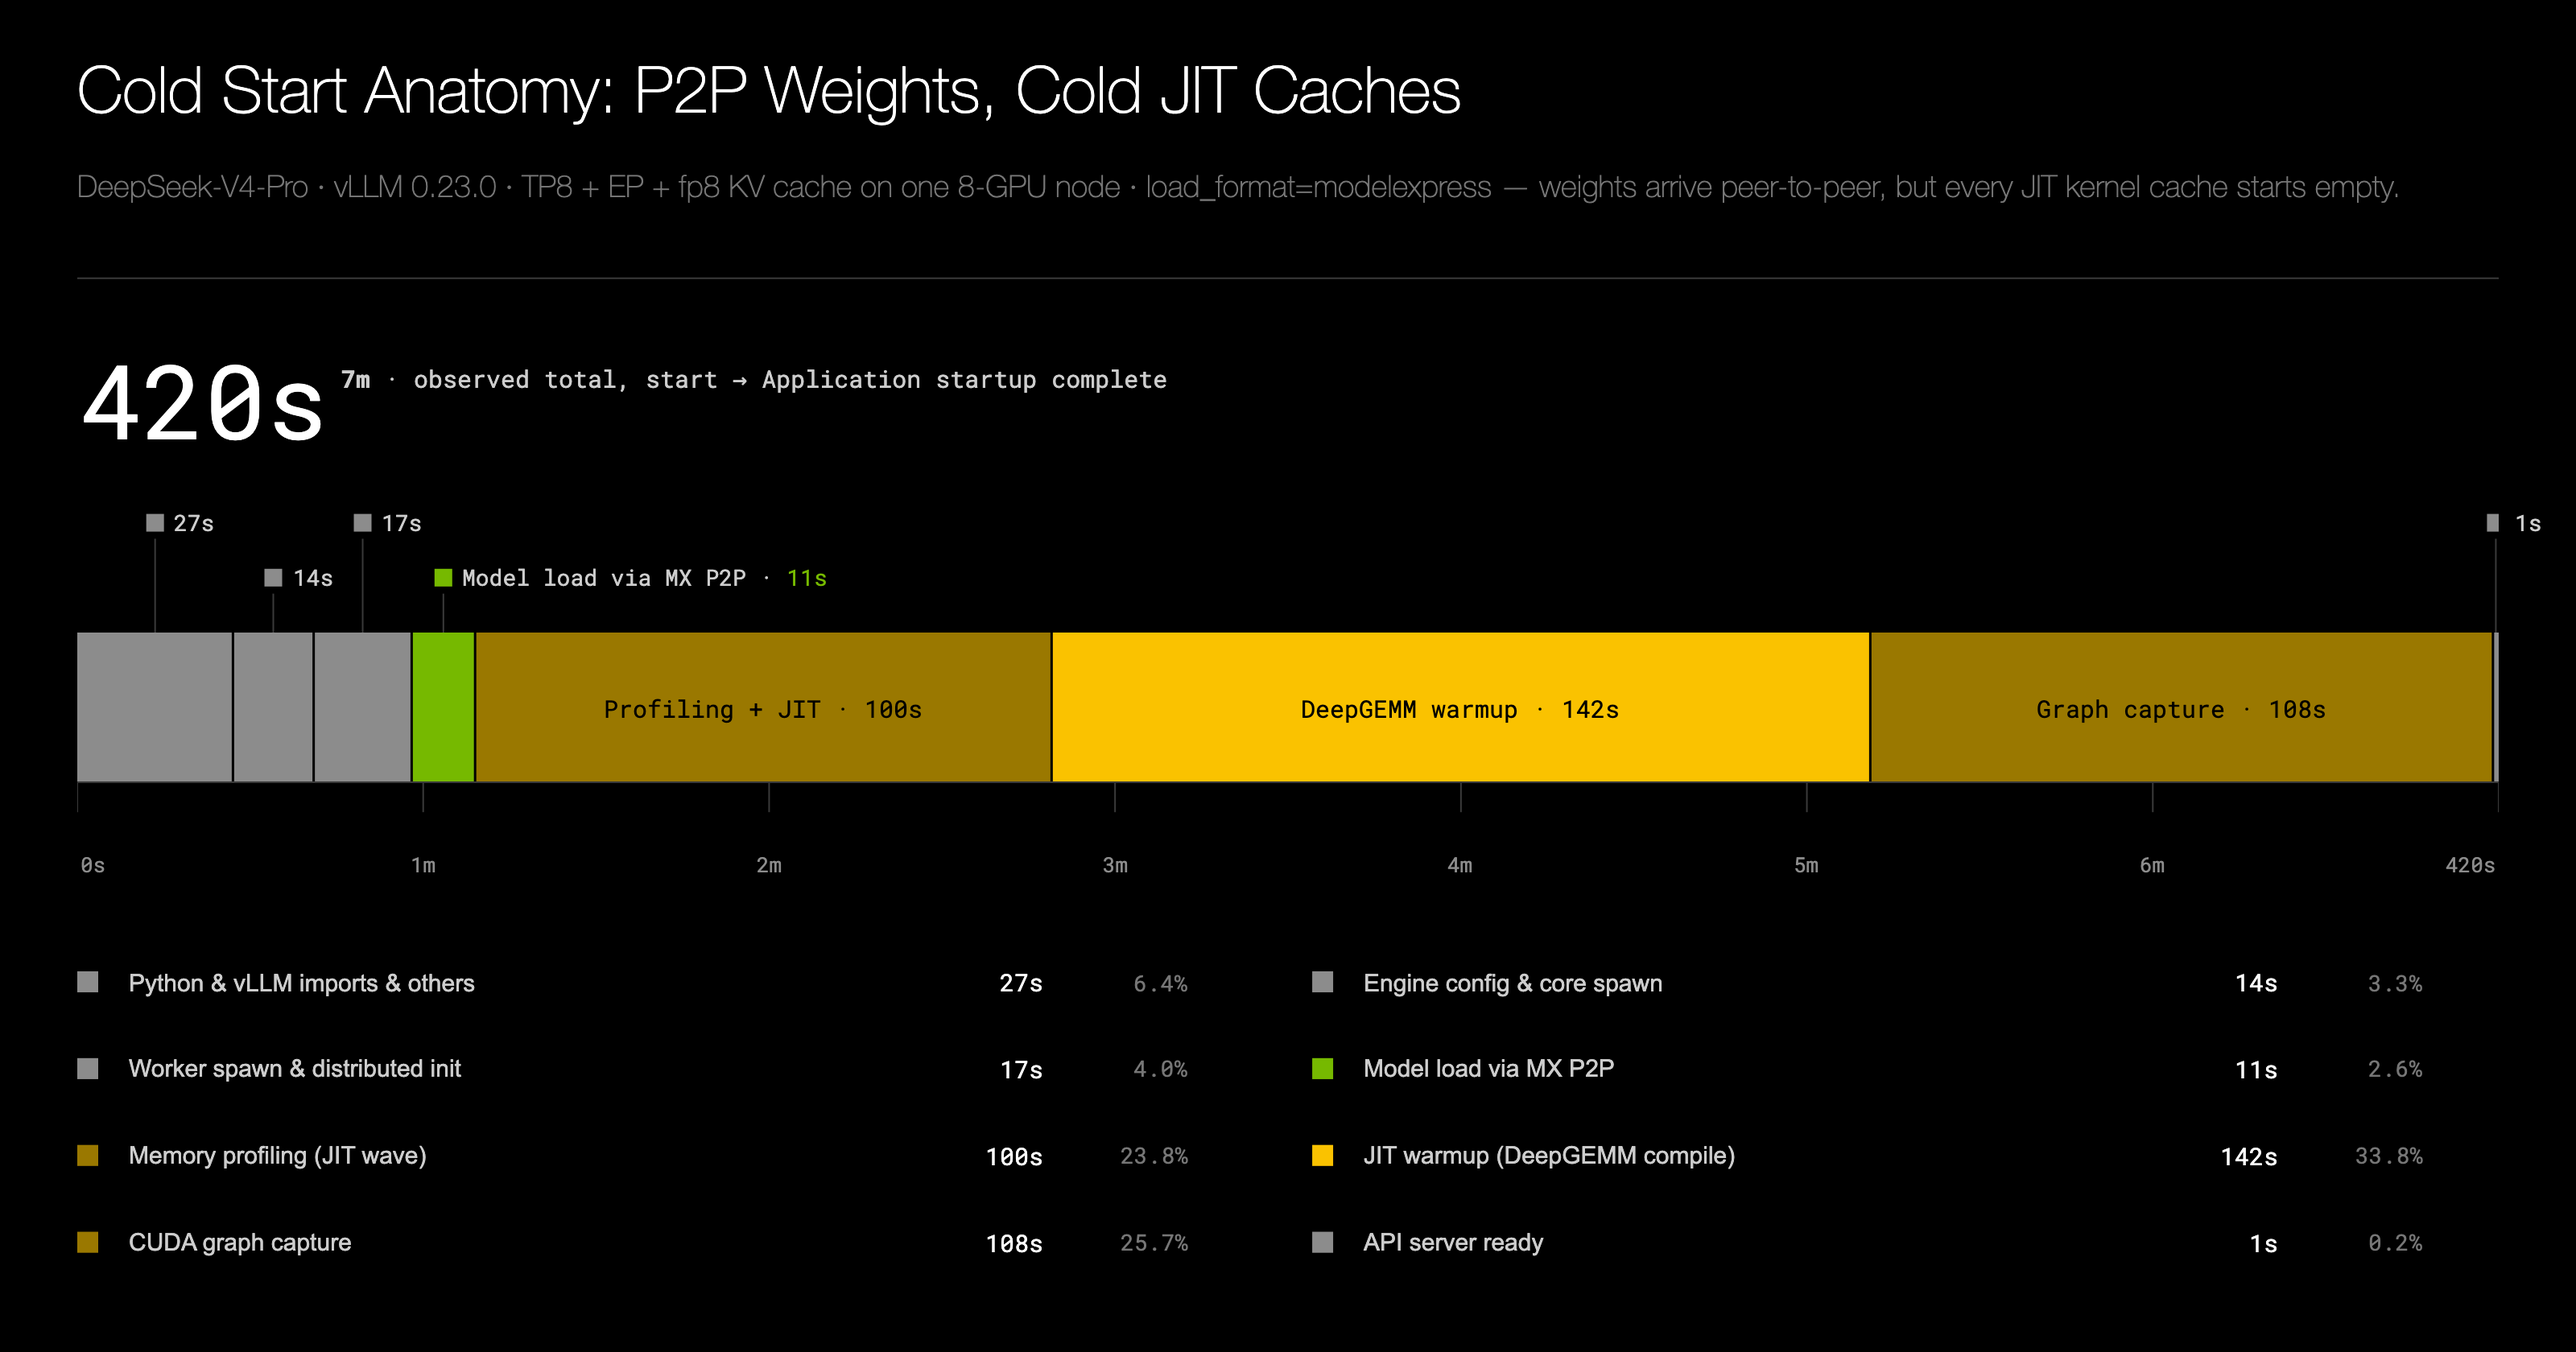
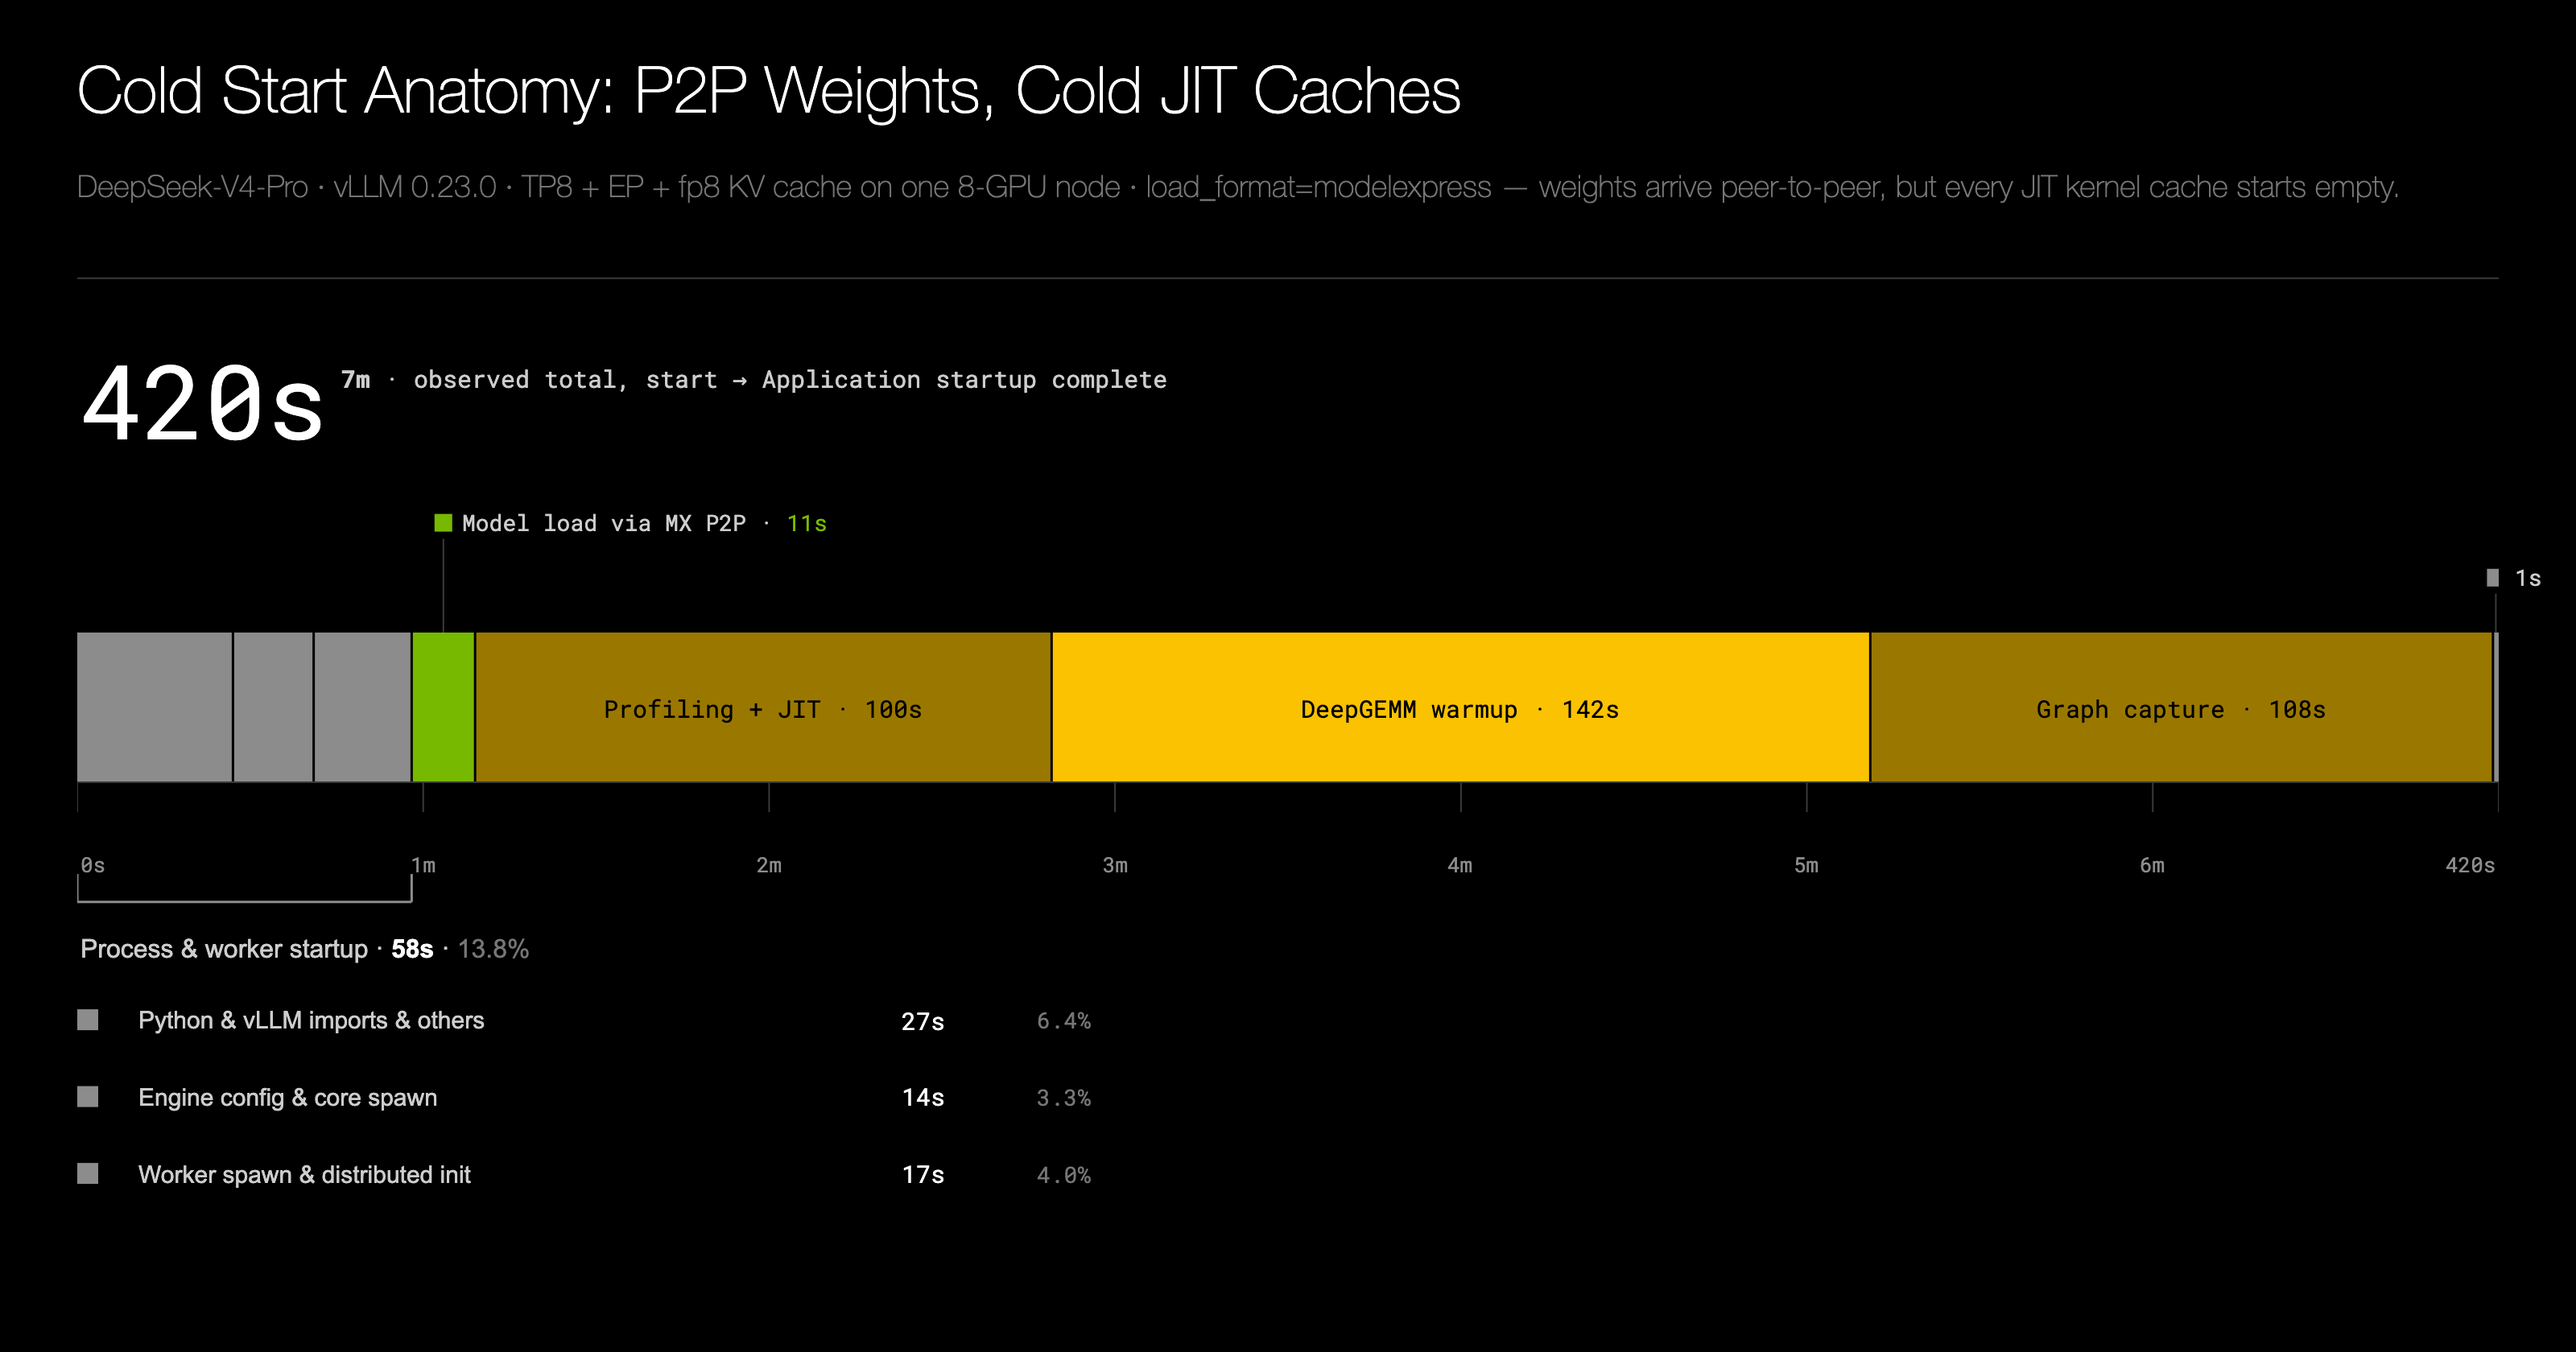
docs(drafts): redesign fig-6 startup bracket + breakdown, drop legend

diff --git a/drafts/modelexpress-coldstart/fig-6/gen_fig_6_coldstart_anatomy.py b/drafts/modelexpress-coldstart/fig-6/gen_fig_6_coldstart_anatomy.py
@@ -18,6 +18,12 @@ Restyle of the reference light-theme breakdown bar into Dynamo Dark:
       data-plane weight load); the JIT-cache warmup cluster carries the gold
       "warmup" role, matching fig-4; setup phases recede to grey
     - real seconds x-axis so the minute ticks align exactly to the bar
+    - the three leading grey setup phases (imports + engine config + worker
+      spawn = 58 s) are grouped by a bracket drawn under that stretch of the
+      timeline; the bracket carries the group total and a compact breakdown of
+      the three parts, replacing the old full eight-row legend. The wide gold
+      warmup phases stay labeled in-bar and MX P2P keeps its green above-bar
+      callout, so nothing else needs a legend.
 
 Data (durations in seconds) is the source of truth; percentages are derived.
 
@@ -48,25 +54,27 @@ TOTAL_SEC = 420  # observed total, start -> Application startup complete (7m)
 #            fig-4's warmup phase; coral stays reserved for a baseline/slow path,
 #            which this single optimized run does not contain
 # Phases in time order. `place`: "in" = label inside the bar; "above" = leader
-# line + marker + duration above the bar (used for the narrow phases).
+# line + marker + duration above the bar (the narrow MX P2P win + the API tick);
+# "group" = no individual callout -- represented instead by the startup bracket
+# and its breakdown drawn below the timeline.
 SEGMENTS = [
     {
         "name": "Python & vLLM imports & others",
         "dur": 27,
         "role": "setup",
-        "place": "above",
+        "place": "group",
     },
     {
         "name": "Engine config & core spawn",
         "dur": 14,
         "role": "setup",
-        "place": "above",
+        "place": "group",
     },
     {
         "name": "Worker spawn & distributed init",
         "dur": 17,
         "role": "setup",
-        "place": "above",
+        "place": "group",
     },
     {"name": "Model load via MX P2P", "dur": 11, "role": "win", "place": "above"},
     {
@@ -93,25 +101,23 @@ SEGMENTS = [
     {"name": "API server ready", "dur": 1, "role": "setup", "place": "above"},
 ]
 
-# Two-column legend order matches the reference (reading down each column).
-LEGEND_LEFT = [
-    "Python & vLLM imports & others",
-    "Worker spawn & distributed init",
-    "Memory profiling (JIT wave)",
-    "CUDA graph capture",
-]
-LEGEND_RIGHT = [
-    "Engine config & core spawn",
-    "Model load via MX P2P",
-    "JIT warmup (DeepGEMM compile)",
-    "API server ready",
-]
+# The three leading grey setup phases collapse into one logical "startup"
+# segment, grouped by a bracket + breakdown below the timeline (replaces the
+# old eight-row legend). They are the first three SEGMENTS, in time order.
+STARTUP_PARTS = [s["name"] for s in SEGMENTS[:3]]
+STARTUP_SEC = sum(s["dur"] for s in SEGMENTS[:3])  # 58s -> 0..58 on the timeline
 
 # ---- geometry (data coords: x = seconds [0,420]; y = paper-equivalent [0,1]) ----
 BAR_Y0, BAR_Y1 = 0.500, 0.650
 LABEL_Y_HIGH, LABEL_Y_LOW = 0.760, 0.705
 TICK_Y0, TICK_Y1 = 0.470, 0.500
 TICK_LABEL_Y = 0.435
+
+# ---- startup bracket + breakdown (below the axis, aligned to the 0..58s span) ----
+BRACKET_LINE_Y = 0.380  # horizontal underline of the bracket
+BRACKET_ARM_TOP = 0.408  # short arms rise from the line toward the bar/axis
+GROUP_LABEL_Y = 0.350  # bracket total + share, just under the underline
+BREAKDOWN_ROW_YS = [0.262, 0.185, 0.108]  # one row per grouped part
 
 
 def main() -> None:
@@ -361,82 +367,116 @@ def main() -> None:
             )
         )
 
-    # ---- legend table (two columns, swatch + name + right-aligned dur + pct) ----
-    sw_w, sw_h = 13 / 1504, 13 / 617  # visually square swatch in paper units
-    cols = [
-        {
-            "names": LEGEND_LEFT,
-            "sw_x": 0.0,
-            "name_x": 0.020,
-            "dur_x": 0.400,
-            "pct_x": 0.460,
-        },
-        {
-            "names": LEGEND_RIGHT,
-            "sw_x": 0.510,
-            "name_x": 0.530,
-            "dur_x": 0.910,
-            "pct_x": 0.970,
-        },
-    ]
-    row_ys = [0.300, 0.213, 0.126, 0.039]
-    for col in cols:
-        for name, ry in zip(col["names"], row_ys):
-            shapes.append(
-                dict(
-                    type="rect",
-                    xref="paper",
-                    yref="paper",
-                    x0=col["sw_x"],
-                    x1=col["sw_x"] + sw_w,
-                    y0=ry - sw_h / 2,
-                    y1=ry + sw_h / 2,
-                    fillcolor=seg_color[name],
-                    line=dict(width=0),
-                    layer="above",
-                )
+    # ---- startup bracket: one grey "⊔" grouping the first three phases ----
+    # A squared bracket (horizontal underline + short arms rising toward the
+    # bar) spanning 0..58s, drawn in the same grey as the setup fills so it
+    # reads as "these three grey segments are one logical startup step."
+    shapes.append(
+        dict(
+            type="line",
+            xref="x",
+            yref="y",
+            x0=0,
+            x1=STARTUP_SEC,
+            y0=BRACKET_LINE_Y,
+            y1=BRACKET_LINE_Y,
+            line=dict(color=grey, width=1.5),
+            layer="above",
+        )
+    )
+    for arm_x in (0, STARTUP_SEC):
+        shapes.append(
+            dict(
+                type="line",
+                xref="x",
+                yref="y",
+                x0=arm_x,
+                x1=arm_x,
+                y0=BRACKET_LINE_Y,
+                y1=BRACKET_ARM_TOP,
+                line=dict(color=grey, width=1.5),
+                layer="above",
             )
-            annotations.append(
-                dict(
-                    xref="paper",
-                    yref="paper",
-                    x=col["name_x"],
-                    y=ry,
-                    xanchor="left",
-                    yanchor="middle",
-                    text=name,
-                    showarrow=False,
-                    font=dict(family=font_sans, size=15, color=text_secondary),
-                )
+        )
+
+    # ---- bracket label: the group name + its total time + share of 420s ----
+    annotations.append(
+        dict(
+            xref="paper",
+            yref="paper",
+            x=0.0,
+            y=GROUP_LABEL_Y,
+            xanchor="left",
+            yanchor="top",
+            text=(
+                f"Process & worker startup · "
+                f'<b><span style="color:{text_primary}">{STARTUP_SEC}s</span></b>'
+                f' · <span style="color:{text_muted}">{pct(STARTUP_SEC)}%</span>'
+            ),
+            showarrow=False,
+            font=dict(family=font_sans, size=16, color=text_secondary),
+        )
+    )
+
+    # ---- breakdown: how the 58s splits across the three grouped parts ----
+    # Compact left-aligned list (swatch + name + right-aligned seconds + share),
+    # scoped to the startup group -- not the old full-figure legend.
+    sw_w, sw_h = 13 / 1504, 13 / 620  # visually square swatch in paper units
+    for name, ry in zip(STARTUP_PARTS, BREAKDOWN_ROW_YS):
+        dur = seg_dur[name]
+        shapes.append(
+            dict(
+                type="rect",
+                xref="paper",
+                yref="paper",
+                x0=0.0,
+                x1=sw_w,
+                y0=ry - sw_h / 2,
+                y1=ry + sw_h / 2,
+                fillcolor=seg_color[name],
+                line=dict(width=0),
+                layer="above",
             )
-            annotations.append(
-                dict(
-                    xref="paper",
-                    yref="paper",
-                    x=col["dur_x"],
-                    y=ry,
-                    xanchor="right",
-                    yanchor="middle",
-                    text=f"{seg_dur[name]}s",
-                    showarrow=False,
-                    font=dict(
-                        family=font_mono, size=15, color=text_primary, weight=500
-                    ),
-                )
+        )
+        annotations.append(
+            dict(
+                xref="paper",
+                yref="paper",
+                x=0.024,
+                y=ry,
+                xanchor="left",
+                yanchor="middle",
+                text=name,
+                showarrow=False,
+                font=dict(family=font_sans, size=15, color=text_secondary),
             )
-            annotations.append(
-                dict(
-                    xref="paper",
-                    yref="paper",
-                    x=col["pct_x"],
-                    y=ry,
-                    xanchor="right",
-                    yanchor="middle",
-                    text=f"{pct(seg_dur[name])}%",
-                    showarrow=False,
-                    font=dict(family=font_mono, size=14, color=text_muted),
-                )
+        )
+        annotations.append(
+            dict(
+                xref="paper",
+                yref="paper",
+                x=0.360,
+                y=ry,
+                xanchor="right",
+                yanchor="middle",
+                text=f"{dur}s",
+                showarrow=False,
+                font=dict(family=font_mono, size=15, color=text_primary, weight=500),
             )
+        )
+        annotations.append(
+            dict(
+                xref="paper",
+                yref="paper",
+                x=0.420,
+                y=ry,
+                xanchor="right",
+                yanchor="middle",
+                text=f"{pct(dur)}%",
+                showarrow=False,
+                font=dict(family=font_mono, size=14, color=text_muted),
+            )
+        )
 
     fig.update_layout(
         template=template,
